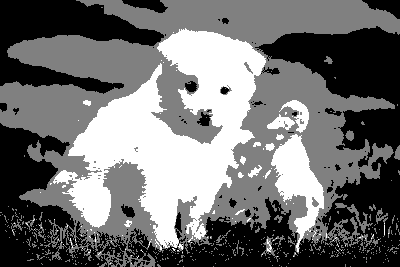
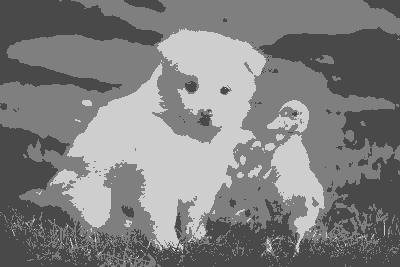
add more result

diff --git a/run.py b/run.py
@@ -50,6 +50,20 @@ labels = Kmeans(K, Z)
 print("Labels shape is: " + str(labels.shape))
 
 '''
+    use average color of cluster as label
+'''
+sum = []
+aver = []
+for i in range(K):
+    sum.append([])
+for i in range(len(Z)):
+    sum[int(labels[i])].append(int(Z[i][0]))
+for i in range(K):
+    aver.append(np.mean(sum[i]))
+for i in range(len(Z)):
+    labels[i]=aver[int(labels[i])]
+
+'''
     reshape as final result image
 '''
 dst = labels.reshape((img.shape[0], img.shape[1]))
@@ -62,7 +76,7 @@ res_title = 'Kmeans Result' + '_k' + str(K)
 titles = [u'Original Image', res_title]
 images = [img, dst]
 
-cv2.imwrite('res_our.png', dst*256//(K-1))
+cv2.imwrite('res_our.png', dst)
 # for i in range(2):
 #     plt.subplot(1, 2, i+1), plt.imshow(images[i], 'gray'), 
 #     plt.title(titles[i])  

diff --git a/eval.py b/eval.py
@@ -13,8 +13,8 @@ a2 = np.array(i2).reshape((-1,))
 c1 = np.unique(a1)
 c2 = np.unique(a2)
 
-print("img 1 {}, cluster {}".format(a1.shape,len(c1)))
-print("img 2 {}, cluster {}".format(a2.shape,len(c2)))
+print("img {} {}, cluster {}".format(args.list[0],a1.shape,len(c1)))
+print("img {} {}, cluster {}".format(args.list[1],a2.shape,len(c2)))
 
 df = pd.DataFrame(0,index=c1, columns=c2)
 
